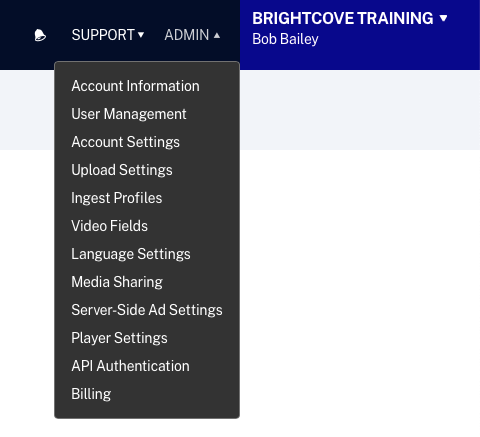
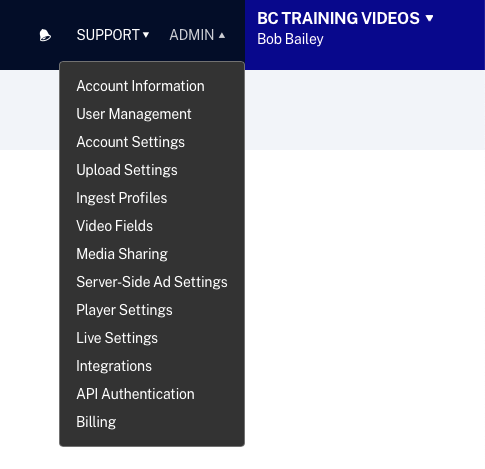
updates for admin integrations menu

diff --git a/_site/admin/managing-account-settings.html b/_site/admin/managing-account-settings.html
@@ -938,6 +938,7 @@ function doGTranslate(lang_pair) {if(lang_pair.value)lang_pair=lang_pair.value;i
       <li><a href="#ssads">Server-Side Ad Settings</a></li>
       <li><a href="#player">Player Settings</a></li>
       <li><a href="#live">Live Settings</a></li>
+      <li><a href="#integrations">Integrations</a></li>
       <li><a href="#api">API Authentication</a></li>
       <li><a href="#billing">Billing</a></li>
     </ul>
@@ -1017,6 +1018,10 @@ function doGTranslate(lang_pair) {if(lang_pair.value)lang_pair=lang_pair.value;i
   <section class="bcls-section">
     <h2 id="live">Live Settings</h2>
     <p>The Live Settings allow you to manage the settings for Brightcove Live. For more information, see <a href="https://live.support.brightcove.com/admin/managing-live-settings.html">Managing Live Settings</a>.</p>
+  </section>
+  <section class="bcls-section">
+    <h2 id="integrations">Integrations</h2>
+    <p>Integrations allows you to integrate with Zoom and broadcast a Zoom meeting using Brightcove Live. For more information, see <a href="https://live.support.brightcove.com/live-module/zoom-live-integration.html">Integrating a Zoom meeting into Brightcove Live</a>.</p>
   </section>
   <section class="bcls-section">
     <h2 id="api">API Authentication</h2>

diff --git a/admin/managing-account-settings.html b/admin/managing-account-settings.html
@@ -23,6 +23,7 @@ parent: Administering Accounts
       <li><a href="#ssads">Server-Side Ad Settings</a></li>
       <li><a href="#player">Player Settings</a></li>
       <li><a href="#live">Live Settings</a></li>
+      <li><a href="#integrations">Integrations</a></li>
       <li><a href="#api">API Authentication</a></li>
       <li><a href="#billing">Billing</a></li>
     </ul>
@@ -102,6 +103,10 @@ parent: Administering Accounts
   <section class="bcls-section">
     <h2 id="live">Live Settings</h2>
     <p>The Live Settings allow you to manage the settings for Brightcove Live. For more information, see <a href="https://live.support.brightcove.com/admin/managing-live-settings.html">Managing Live Settings</a>.</p>
+  </section>
+  <section class="bcls-section">
+    <h2 id="integrations">Integrations</h2>
+    <p>Integrations allows you to integrate with Zoom and broadcast a Zoom meeting using Brightcove Live. For more information, see <a href="https://live.support.brightcove.com/live-module/zoom-live-integration.html">Integrating a Zoom meeting into Brightcove Live</a>.</p>
   </section>
   <section class="bcls-section">
     <h2 id="api">API Authentication</h2>

diff --git a/_site/admin/configuring-language-settings.html b/_site/admin/configuring-language-settings.html
@@ -974,7 +974,7 @@ function doGTranslate(lang_pair) {if(lang_pair.value)lang_pair=lang_pair.value;i
 
 <hr>
 <div class="last-updated">
-  Page last updated on 06 Oct 2020
+  Page last updated on 08 Feb 2021
 </div>
 
 

diff --git a/_site/media/working-multi-lingual-metadata.html b/_site/media/working-multi-lingual-metadata.html
@@ -967,7 +967,7 @@ function doGTranslate(lang_pair) {if(lang_pair.value)lang_pair=lang_pair.value;i
 
 <hr>
 <div class="last-updated">
-  Page last updated on 13 Apr 2020
+  Page last updated on 08 Feb 2021
 </div>
 
 
